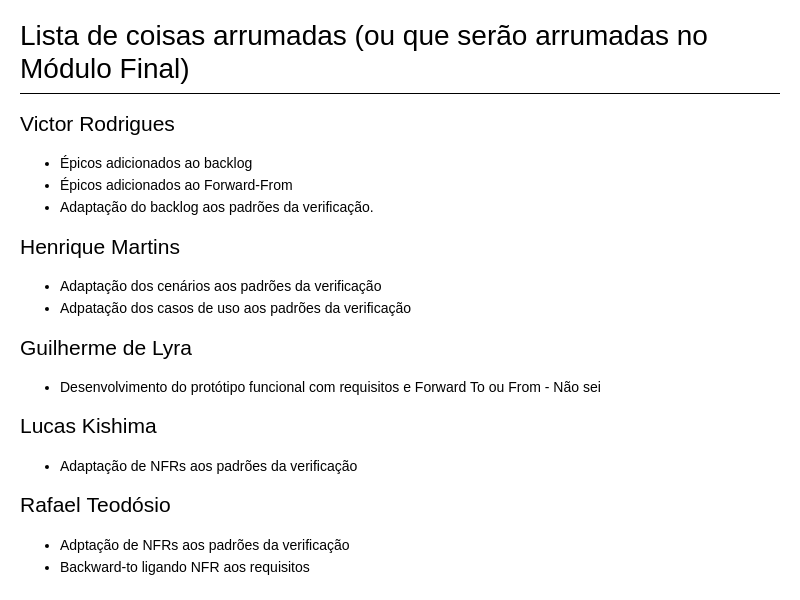
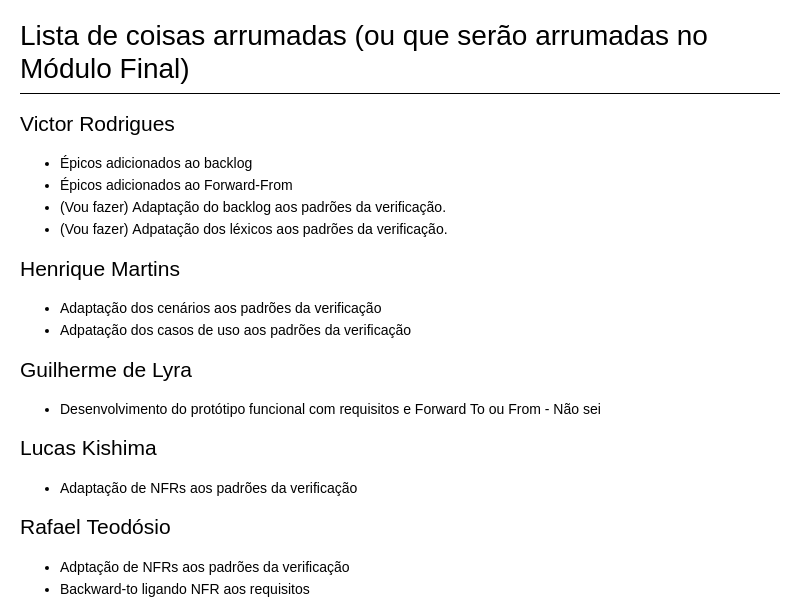
Atualizando checklist

diff --git a/ApresentacaoFinal.md b/ApresentacaoFinal.md
@@ -3,7 +3,8 @@
 ## Victor Rodrigues
 - Épicos adicionados ao backlog
 - Épicos adicionados ao Forward-From
-- Adaptação do backlog aos padrões da verificação.
+- (Vou fazer) Adaptação do backlog aos padrões da verificação.
+- (Vou fazer) Adpatação dos léxicos aos padrões da verificação.
 
 ## Henrique Martins
 - Adaptação dos cenários aos padrões da verificação
